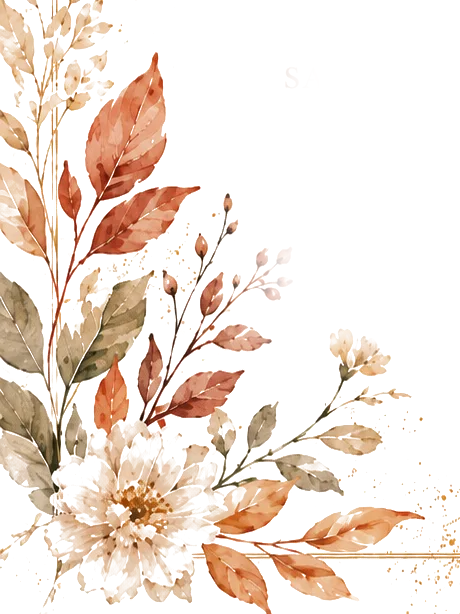
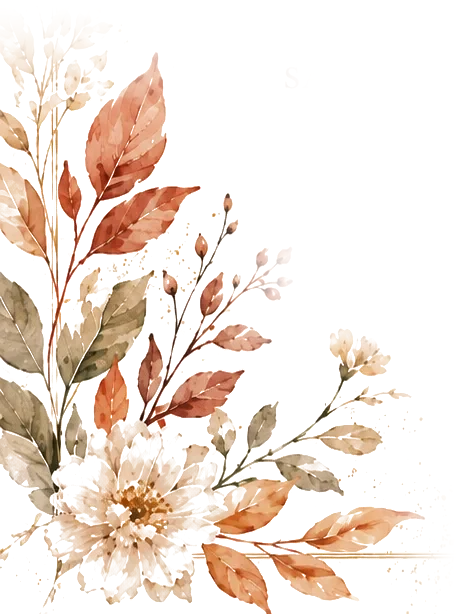
Fade inner edges of floral corners so blooms don't look cut off

diff --git a/index.html b/index.html
@@ -9,7 +9,7 @@
 <link href="https://fonts.googleapis.com/css2?family=Cormorant+Garamond:ital,wght@0,400;0,500;0,600;1,400&family=Jost:wght@300;400;500&display=swap" rel="stylesheet">
 <link rel="stylesheet" href="https://unpkg.com/leaflet@1.9.4/dist/leaflet.css" crossorigin="">
 <link rel="stylesheet" href="styles.css">
-<link rel="icon" href="img/floral-tl.webp">
+<link rel="icon" href="img/floral-tl.webp?v=2">
 </head>
 <body>
 <header class="nav">
@@ -22,8 +22,8 @@
 
 <main>
 <section id="home" class="hero">
-  <img class="fl fl-tl" src="img/floral-tl.webp" alt="" aria-hidden="true">
-  <img class="fl fl-br" src="img/floral-br.webp" alt="" aria-hidden="true">
+  <img class="fl fl-tl" src="img/floral-tl.webp?v=2" alt="" aria-hidden="true">
+  <img class="fl fl-br" src="img/floral-br.webp?v=2" alt="" aria-hidden="true">
   <div class="hero-inner arch">
     <div class="monogram" aria-hidden="true">O<em>&amp;</em>W</div>
     <p class="eyebrow">Together with their loved ones</p>
@@ -178,7 +178,7 @@
 </section>
 
 <section id="rsvp" class="wrap alt rsvp">
-  <img class="fl fl-bl" src="img/floral-bl.webp" alt="" aria-hidden="true">
+  <img class="fl fl-bl" src="img/floral-bl.webp?v=2" alt="" aria-hidden="true">
   <h2>RSVP</h2>
   <div class="rule"></div>
   <p class="lead">RSVP opens with the formal invitation.</p>
